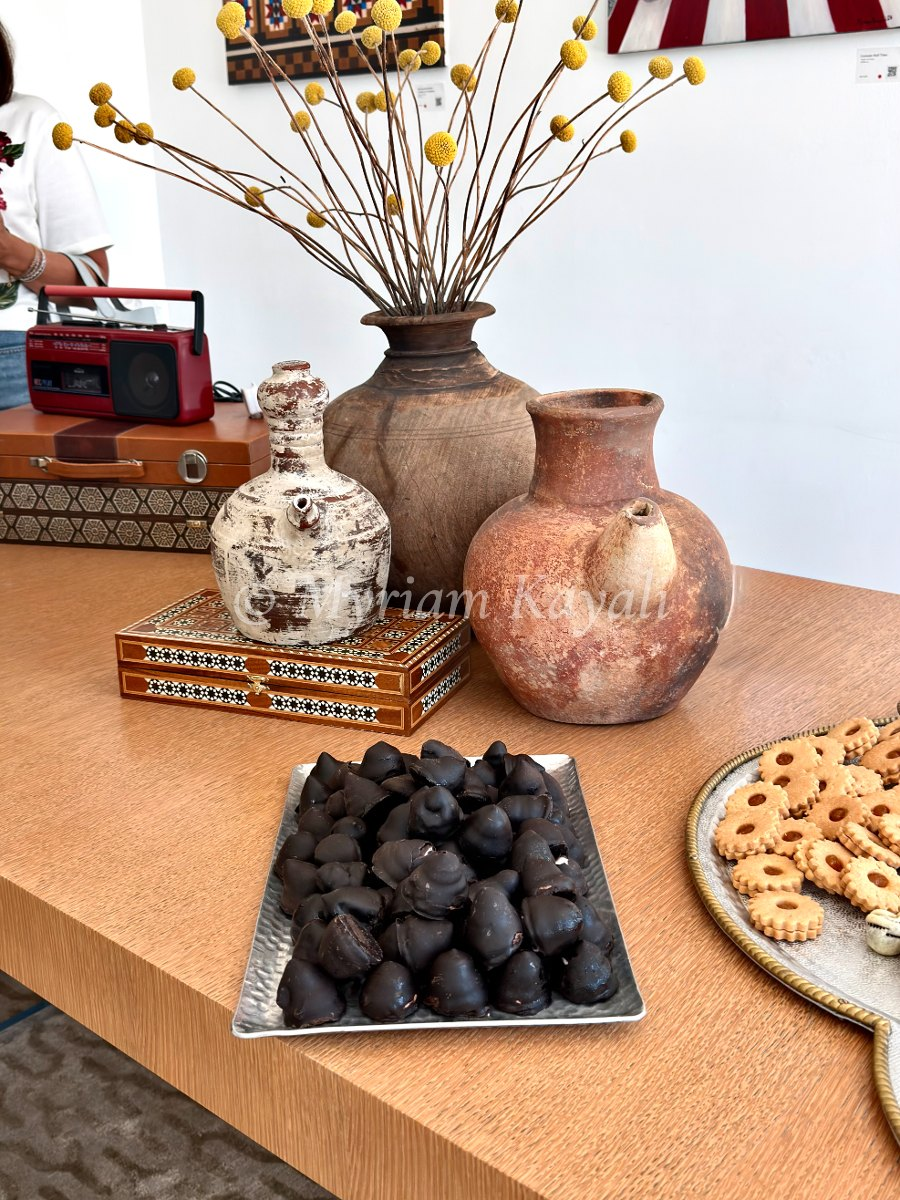
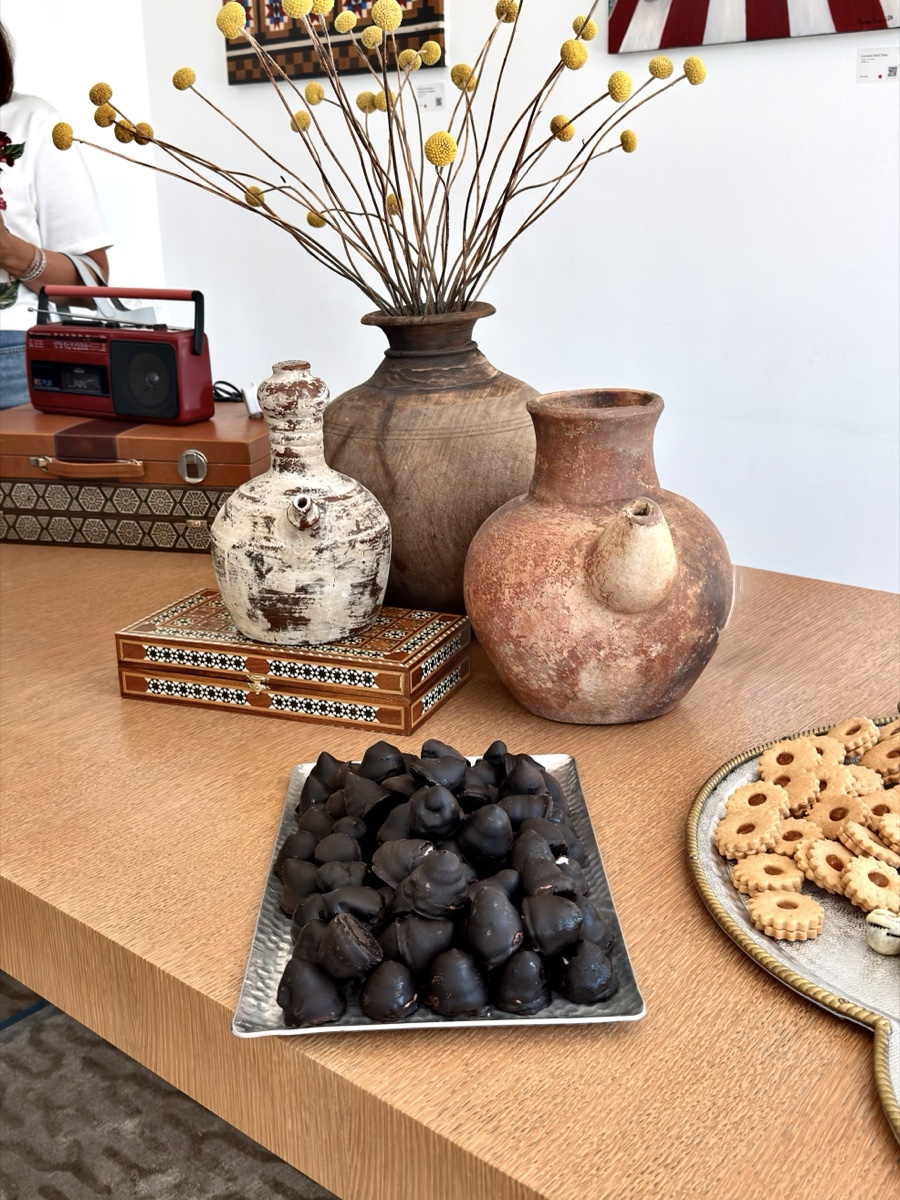
commit

diff --git a/admin.html b/admin.html
@@ -2766,7 +2766,9 @@ const PUBLIC_IMAGE_MAX = 1200;
 const PROTECTED_PREFIX = 'protected-'; // file name marker for processed images
 const BLOB_HOST_RE = /^https:\/\/[a-z0-9]+\.public\.blob\.vercel-storage\.com\//i;
 
-async function protectImage(source) {
+// watermark: false for photos that aren't artwork (exhibition / event photos):
+// still resized, no "© Myriam Kayali".
+async function protectImage(source, { watermark = true } = {}) {
   const w0 = source.naturalWidth || source.width;
   const h0 = source.naturalHeight || source.height;
   const scale = Math.min(1, PUBLIC_IMAGE_MAX / Math.max(w0, h0));
@@ -2776,6 +2778,10 @@ async function protectImage(source) {
   const ctx = canvas.getContext('2d');
   ctx.imageSmoothingQuality = 'high';
   ctx.drawImage(source, 0, 0, w, h);
+  if (!watermark) {
+    return new Promise((resolve, reject) =>
+      canvas.toBlob(b => b ? resolve(b) : reject(new Error('Could not encode image.')), 'image/jpeg', 0.86));
+  }
 
   // Watermark: "© Myriam Kayali" across the centre, translucent so the painting still
   // reads through it, and hard to crop out. Readable on light and dark paint.
@@ -2884,22 +2890,15 @@ function setPendingOriginals(list) {
   try { localStorage.setItem(ORIGINALS_KEY, JSON.stringify(list)); } catch {}
 }
 
-// Exhibition data only counts as loaded if it isn't the built-in default
-// (which is what the API returns when storage can't be read).
-function exhibitionLoadedForEdit() {
-  return exhibitionData && Array.isArray(exhibitionData.images) && exhibitionData.images.length > 0;
-}
-
 async function collectImagesToProtect() {
   if (!loaded.paintings) await loadPaintings();
   if (!loaded.prints) await loadPrints();
-  await loadExhibition();
   if (!loaded.paintings || !loaded.prints) throw new Error('Paintings or prints did not load. Refresh the page and try again.');
   const urls = new Set();
   const want = u => needsProtection(u) || !!WATERMARK_REDO[u];
   getPaintings().forEach(p => [p.imageData, ...(p.additionalImages || [])].forEach(u => want(u) && urls.add(u)));
   getPrints().forEach(p => want(p.imageData) && urls.add(p.imageData));
-  if (exhibitionLoadedForEdit()) [...exhibitionData.images, exhibitionData.pressImageUrl].forEach(u => want(u) && urls.add(u));
+  // Exhibition images are event photos: never watermarked, so not converted here.
   return [...urls];
 }
 
@@ -2953,17 +2952,6 @@ async function runImageProtection() {
   }
   const prints = getPrints().map(p => ({ ...p, imageData: swap(p.imageData) }));
   if (prints.some((p, i) => p.imageData !== getPrints()[i].imageData)) ok = (await savePrints(prints)) && ok;
-  if (exhibitionLoadedForEdit()) {
-    const ex = { ...exhibitionData, images: exhibitionData.images.map(swap), pressImageUrl: swap(exhibitionData.pressImageUrl) };
-    if (JSON.stringify(ex) !== JSON.stringify(exhibitionData)) {
-      const res = await fetch('/api/exhibition', {
-        method: 'POST', headers: { 'Content-Type': 'application/json' },
-        body: JSON.stringify({ data: ex, pin: currentAdminPin }),
-      }).catch(() => null);
-      if (res && res.ok) { exhibitionData = ex; exhibitionImages = ex.images.slice(); } else ok = false;
-    }
-  }
-
   const replaced = Object.keys(map);
   const redoOriginals = replaced.map(u => WATERMARK_REDO[u]).filter(Boolean);
   if (ok) setPendingOriginals([...new Set([...pendingOriginals(), ...replaced, ...redoOriginals, ...LEGACY_SITE_IMAGES])]);
@@ -3030,8 +3018,9 @@ function setCropRatio(ratio) {
 async function applyCrop() {
   if (!cropperInstance) return;
   const canvas = cropperInstance.getCroppedCanvas({ maxWidth: 2400, maxHeight: 2400 });
-  const blob = await protectImage(canvas); // public copy: max 1200px + watermark
   const target = cropTarget;
+  // Public copy: max 1200px, watermarked unless it's an exhibition (event) photo.
+  const blob = await protectImage(canvas, { watermark: target !== 'exhibition' && target !== 'press-image' });
   cancelCrop();
 
   if (target === 'main') {

diff --git a/index.html b/index.html
@@ -2413,11 +2413,10 @@
       </div>
       <div class="premiere-card">
         <div class="premiere-img">
-          <img class="premiere-img-placeholder" src="/images/artwork/premiere-3-toystory.jpg" alt="Home Premiere, Piece III">
+          <img class="premiere-img-placeholder" src="/images/artwork/premiere-3-toystory.jpg?v=2" alt="Home Premiere, Piece III">
         </div>
         <div class="premiere-info">
           <p class="premiere-title">Piece III</p>
-          <p class="premiere-note">In Progress</p>
         </div>
       </div>
     </div>

diff --git a/CLAUDE.md b/CLAUDE.md
@@ -135,7 +135,7 @@ Each limited edition print (`editionTotal` > 0 on the print record, set in the a
 
 ## Image protection — max 1200px + watermark (admin.html)
 
-Screenshots can't be blocked on the web, so the protection is that no public image is big enough to print well. The Blob store is public, so **full-size files must never be uploaded**: every admin upload goes through `protectImage()` (long side ≤ `PUBLIC_IMAGE_MAX` = 1200px, a translucent "© Myriam Kayali" watermark across the centre, JPEG 0.86) and `uploadProtected()`, which names files `protected-…`. Settings → **Protect Artwork Images** converts older images: step 1 makes protected copies of every full-size Blob image referenced by paintings, prints and the exhibition and repoints the data; step 2 deletes the replaced originals (plus `LEGACY_SITE_IMAGES`) through `POST /api/upload` with `x-action: delete`, which only deletes image files in this store that no painting, print or exhibition still uses. iPhone HEIC files only open in Safari, so run it from Safari if one is skipped. `WATERMARK_REDO` maps the first (corner-watermark) copies back to their originals so they can be remade with the centred mark; it does nothing once those copies are gone. Artwork images hardcoded in the site live in `/images/artwork/` (already processed the same way). index.html also blocks right-click/drag/long-press saving on images, a deterrent only.
+Screenshots can't be blocked on the web, so the protection is that no public image is big enough to print well. The Blob store is public, so **full-size files must never be uploaded**: every admin upload goes through `protectImage()` (long side ≤ `PUBLIC_IMAGE_MAX` = 1200px, a translucent "© Myriam Kayali" watermark across the centre, JPEG 0.86) and `uploadProtected()`, which names files `protected-…`. Settings → **Protect Artwork Images** converts older images: step 1 makes protected copies of every full-size Blob image referenced by paintings and prints and repoints the data; step 2 deletes the replaced originals (plus `LEGACY_SITE_IMAGES`) through `POST /api/upload` with `x-action: delete`, which only deletes image files in this store that no painting, print or exhibition still uses. **Exhibition (event) photos are never watermarked**: uploads to the Exhibition screen call `protectImage(…, { watermark: false })` (resized only), and the tool skips the exhibition. iPhone HEIC files only open in Safari, so run it from Safari if one is skipped. `WATERMARK_REDO` maps the first (corner-watermark) copies back to their originals so they can be remade with the centred mark; it does nothing once those copies are gone. Artwork images hardcoded in the site live in `/images/artwork/` (already processed the same way). index.html also blocks right-click/drag/long-press saving on images, a deterrent only.
 
 ## Image delivery — /media proxy (index.html + vercel.json)
 
